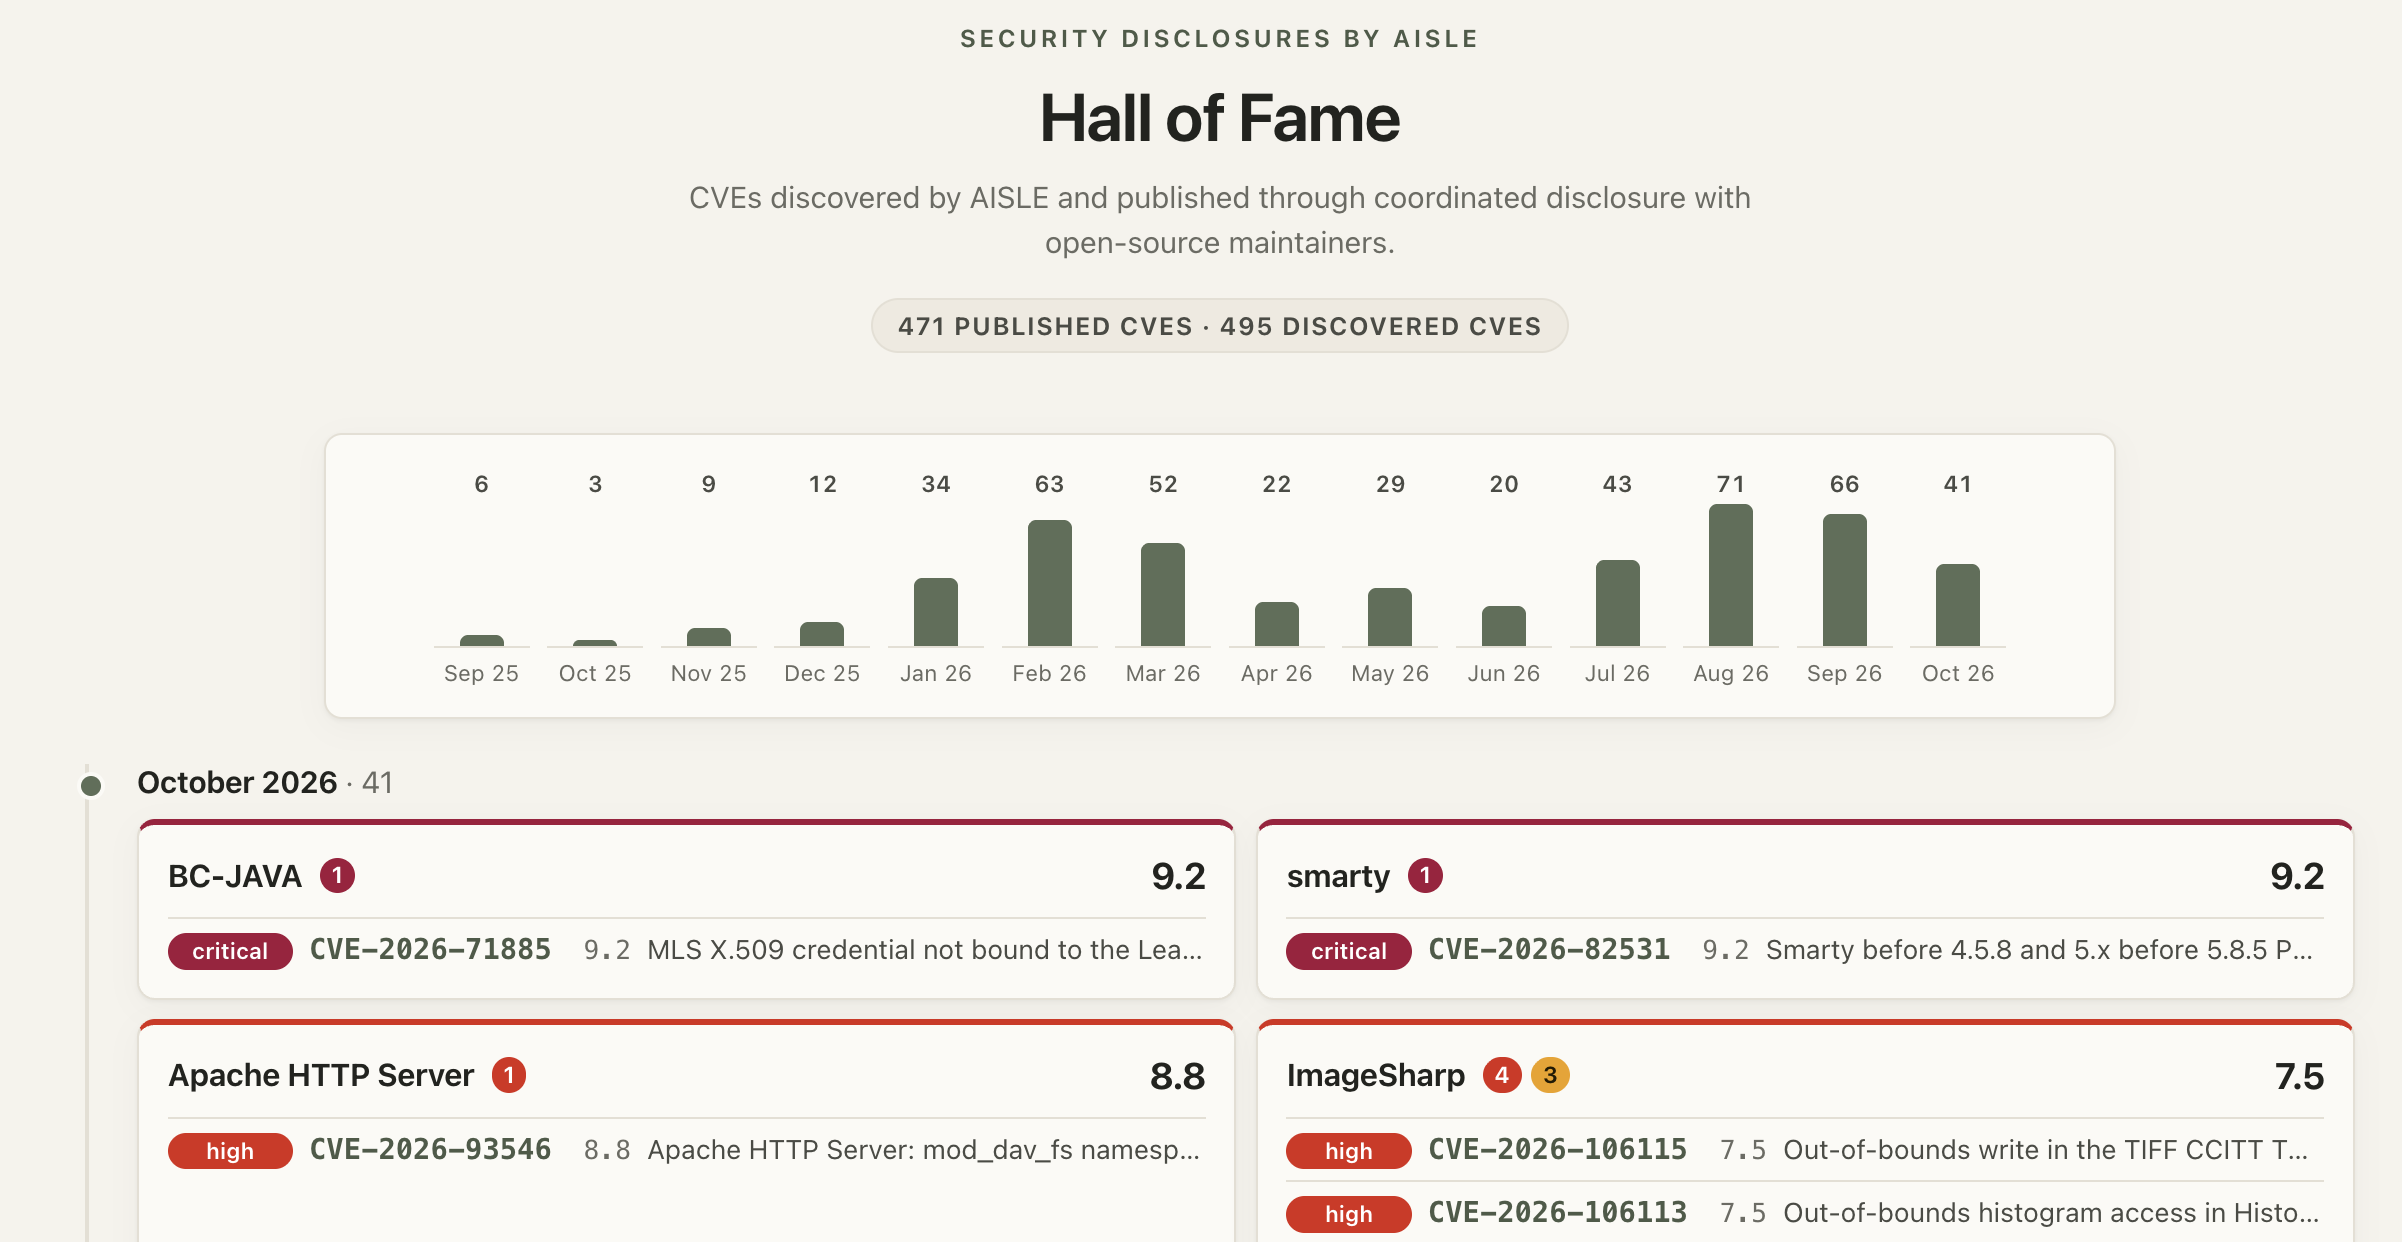
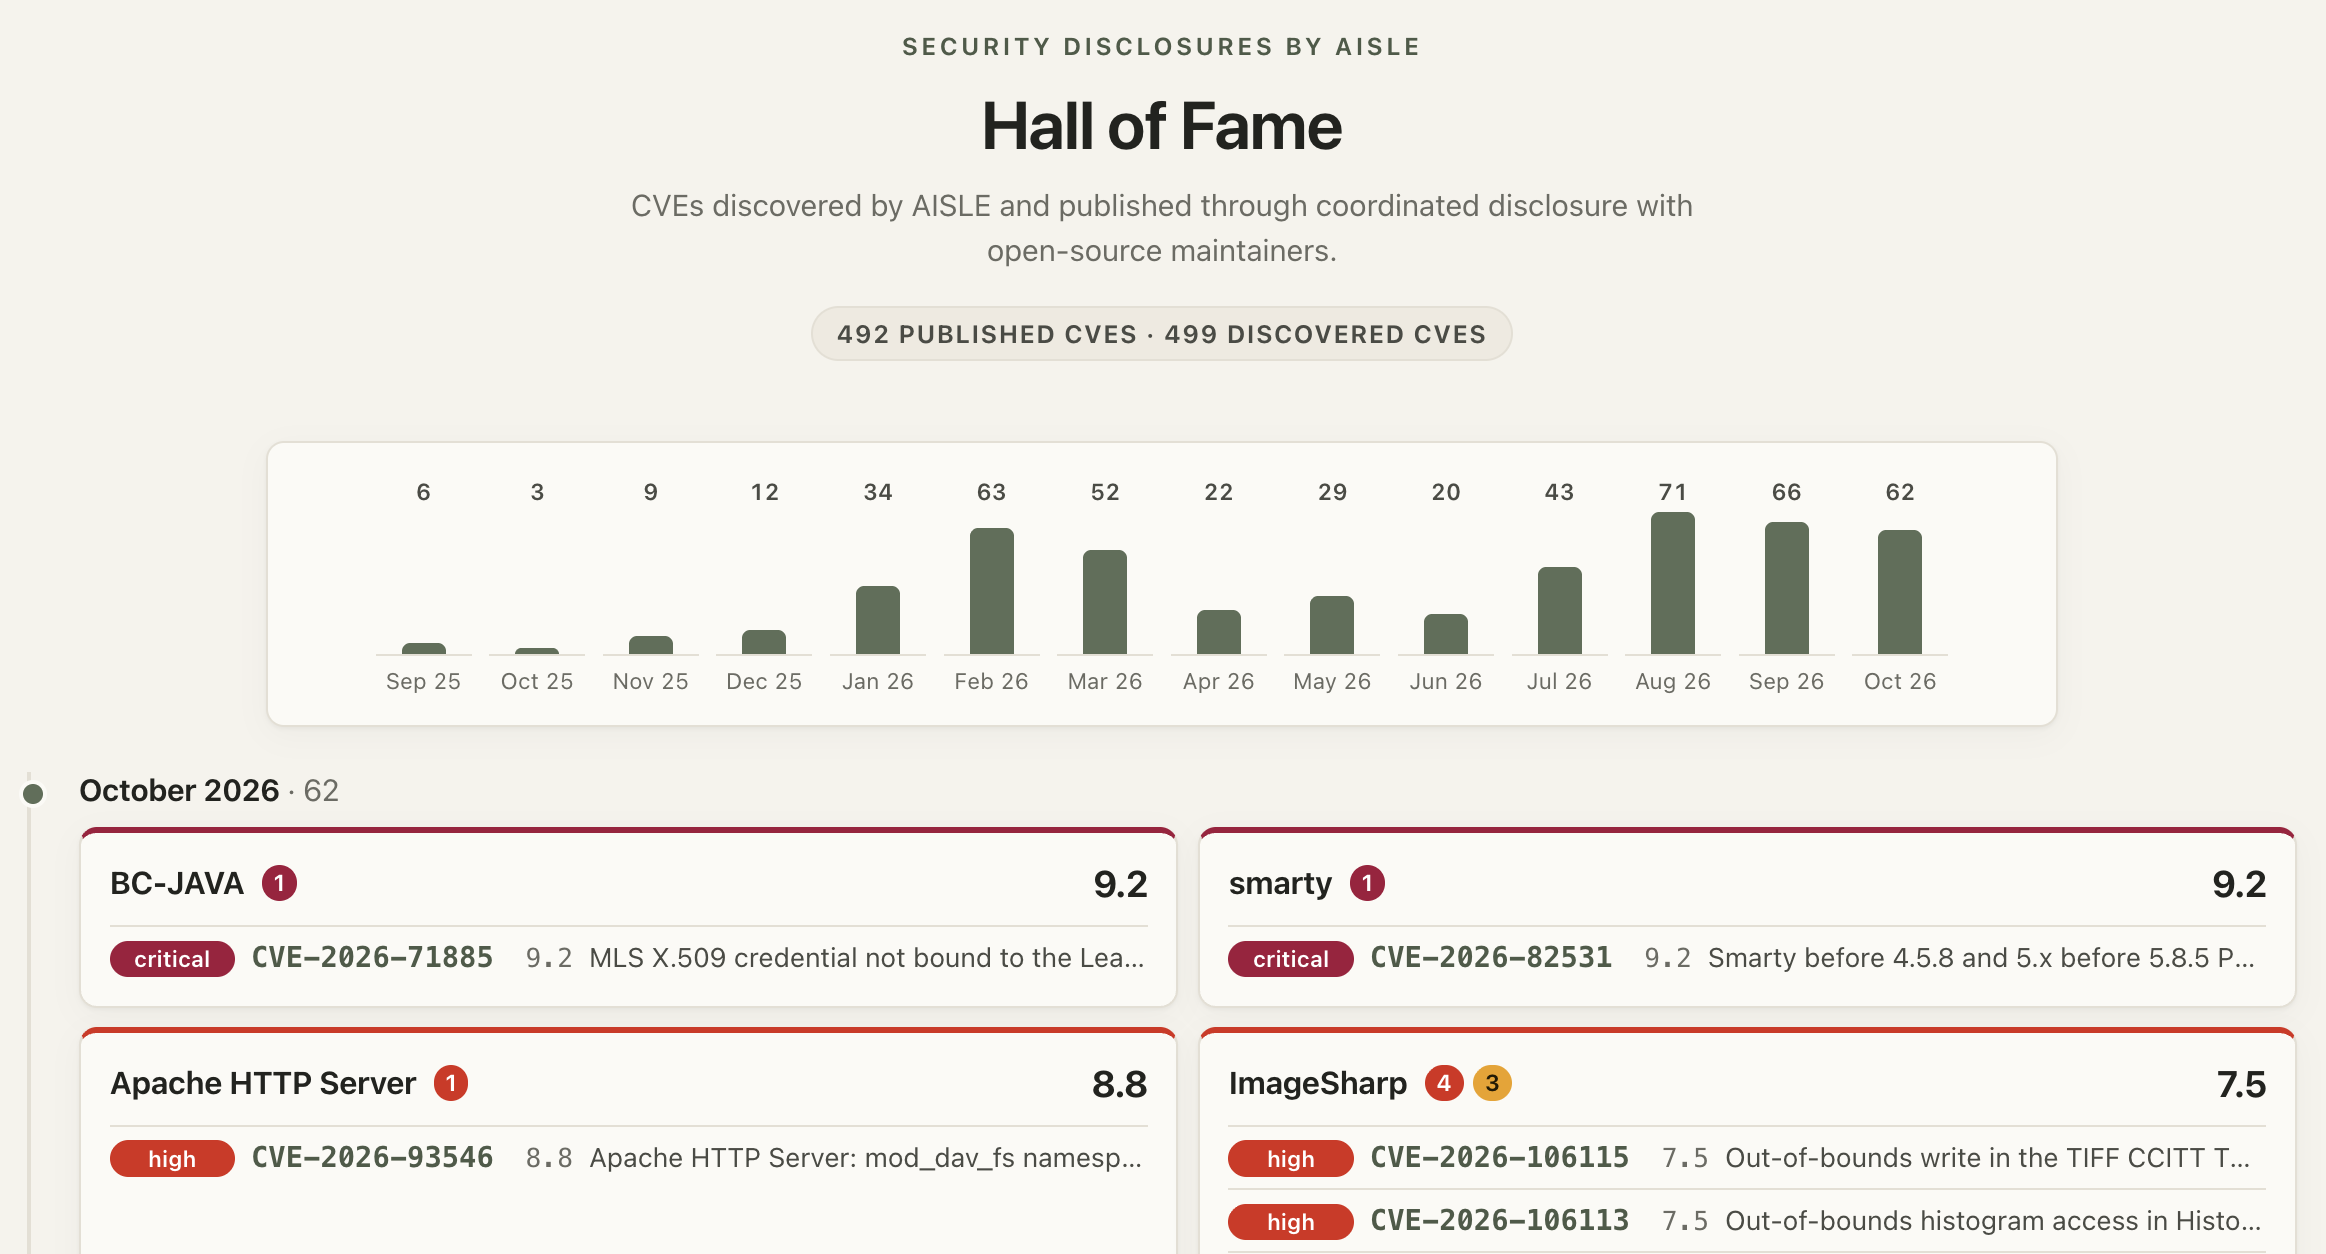
update: cve factory slide

diff --git a/style.css b/style.css
@@ -535,7 +535,7 @@
   position: relative;
   width: 94%;
   transform: translateY(-16px);
-  aspect-ratio: 2402 / 1242;
+  aspect-ratio: 2326 / 1254;
 }
 
 .aisle-wall-of-fame-image {
@@ -559,17 +559,17 @@
 }
 
 .aisle-discovery-claim-mark {
-  top: 14.6%;
-  left: 28.7%;
-  width: 15.1%;
+  top: 15%;
+  left: 26%;
+  width: 18%;
   height: 2.7%;
 }
 
 .aisle-discovered-count-mark {
   top: 25.2%;
-  left: 50.8%;
-  width: 13.4%;
-  height: 2.2%;
+  left: 50%;
+  width: 15%;
+  height: 3%;
 }
 
 /* OpenSSL: white canvas, original typography, no event chrome. */
@@ -590,7 +590,7 @@
 .bsides-jagged { position: absolute; top: 50%; left: 50%; width: 360px; height: 420px; transform: translate(-50%, -50%); }
 .bsides-jagged svg { display: block; width: 100%; height: 100%; overflow: hidden; }
 
-.aisle-first-month-mark { top: 50.5%; left: 18.3%; width: 3.5%; height: 5%; }
+.aisle-first-month-mark { top: 50.5%; left: 16%; width: 5%; height: 5%; }
 
 .ai-native-harness { position: relative; }
 .harness-versions { color: #6e6e73; position: absolute; top: 100%; left: 50%; transform: translateX(-50%); text-align: center; font-size: 20px; line-height: 1.35; }

diff --git a/slides.md b/slides.md
@@ -120,13 +120,13 @@ sourceSlide: 15
     />
     <span
       class="aisle-wall-of-fame-mark aisle-discovered-count-mark"
-      data-hotspot-name="495 discovered CVEs"
+      data-hotspot-name="499 discovered CVEs"
       v-mark="{ at: 1, type: 'circle', color: '#ff3b30', padding: 10, strokeWidth: 3 }"
     />
     <span
       class="aisle-wall-of-fame-mark aisle-first-month-mark"
       data-hotspot-name="Sep 25 first bar"
-      v-mark="{ at: 1, type: 'circle', color: '#ff3b30', padding: 5, strokeWidth: 3 }"
+      v-mark="{ at: 1, type: 'circle', color: '#ff3b30', padding: 4.5, strokeWidth: 3 }"
     />
   </div>
 </div>
